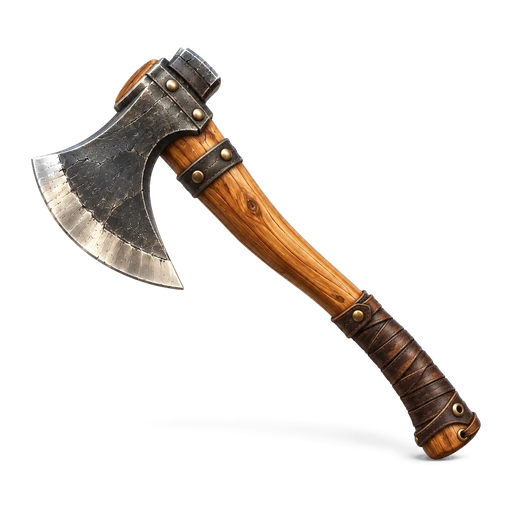
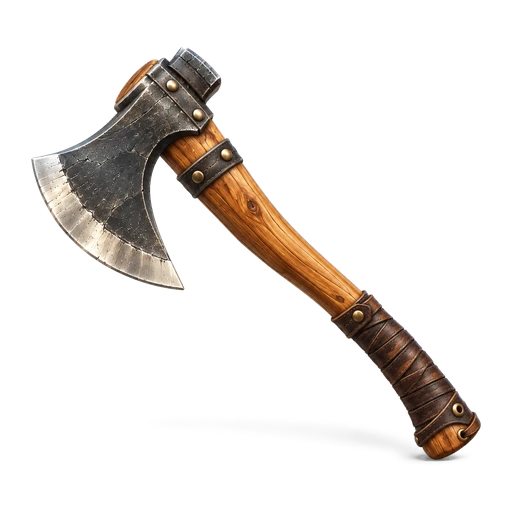
Картинки речей: тло прибирається лише плавними переходами — світлі краї лез не стають прозорими
tools/item-image.py і prepImage в admin-items.html: на білому тлі заливка від країв іде,
лише поки сусідні пікселі відрізняються ≤ 6 яскравості (тло й розмита тінь), і зупиняється
на різкій межі з річчю. IT-202 Дворучна сокира; IT-200/201 переобчислено.

Claude-Session: https://claude.ai/code/session_019wvVtScsJ6oVCSFzw8NY5F

diff --git a/admin-items.html b/admin-items.html
@@ -1092,9 +1092,13 @@ function prepImage(im){
     for(x=0;x<w;x+=2){ bv.push(at(x,0)); bv.push(at(x,h-1)); } for(y=0;y<h;y+=2){ bv.push(at(0,y)); bv.push(at(w-1,y)); }
     var lt=bv.filter(function(v){ return v>=180; }), checker=lt.length>0.8*bv.length && Math.max.apply(null,lt)-Math.min.apply(null,lt)>=20;
     var keep=!checker, lo=checker?175:150, seen=new Uint8Array(w*h), q=[];
-    for(x=0;x<w;x++){ q.push(x, 0, x, h-1); } for(y=0;y<h;y++){ q.push(0, y, w-1, y); }
-    while(q.length){ y=q.pop(); x=q.pop(); if(x<0||y<0||x>=w||y>=h) continue; var n=y*w+x; if(seen[n]) continue;
-      var j=n*4; if(!light(j, lo)) continue; seen[n]=1; q.push(x+1, y, x-1, y, x, y+1, x, y-1); }
+    // біле тло: заливка йде лише плавними переходами (тло й розмита тінь) — на різкій межі з річчю
+    // зупиняється, тож світлі краї металу (лез, обідків) не стають прозорими; «шахівниця» — без цього
+    var step=keep?6:999, lum=function(j){ return (p[j]+p[j+1]+p[j+2])/3; };
+    for(x=0;x<w;x++){ q.push(x, 0, -1, x, h-1, -1); } for(y=0;y<h;y++){ q.push(0, y, -1, w-1, y, -1); }
+    while(q.length){ var pl=q.pop(); y=q.pop(); x=q.pop(); if(x<0||y<0||x>=w||y>=h) continue; var n=y*w+x; if(seen[n]) continue;
+      var j=n*4; if(!light(j, lo)) continue; var l=lum(j); if(pl>=0 && Math.abs(l-pl)>step) continue;
+      seen[n]=1; q.push(x+1, y, l, x-1, y, l, x, y+1, l, x, y-1, l); }
     // білі «дірки» всередині речі (між шнурками, у петлях): замкнена світла ділянка > 0,15% кадру — теж тло; дрібні блиски лишаються
     var hlo=keep?238:175, minA=Math.max(40, w*h*0.0015), mark=new Uint8Array(w*h);
     for(var n0=0;n0<w*h;n0++){

diff --git a/tools/item-image.py b/tools/item-image.py
@@ -28,19 +28,25 @@ def checker(im):
     light = [v for v in vals if v >= 180]
     return len(light) > 0.8 * len(vals) and max(light) - min(light) >= 20
 
-def bg_mask(im, lo):
-    """тло = світлі нейтральні пікселі, зʼєднані з краєм (сама річ лишається непрозорою)"""
+def bg_mask(im, lo, step=None):
+    """тло = світлі нейтральні пікселі, зʼєднані з краєм (сама річ лишається непрозорою).
+    step — для білого тла: заливка йде лише плавними переходами (біле тло й розмита тінь),
+    а на різкій межі з річчю зупиняється — світлі краї металу (лез, обідків) лишаються"""
     w, h = im.size; px = im.load(); m = bytearray(w * h); q = deque()
+    lum = lambda c: (c[0] + c[1] + c[2]) / 3
     for x in range(w):
-        q.append((x, 0)); q.append((x, h - 1))
+        q.append((x, 0, None)); q.append((x, h - 1, None))
     for y in range(h):
-        q.append((0, y)); q.append((w - 1, y))
+        q.append((0, y, None)); q.append((w - 1, y, None))
     while q:
-        x, y = q.popleft()
+        x, y, prev = q.popleft()
         if x < 0 or y < 0 or x >= w or y >= h or m[y * w + x]: continue
-        if not is_light_neutral(px[x, y], lo): continue
+        c = px[x, y]
+        if not is_light_neutral(c, lo): continue
+        l = lum(c)
+        if step is not None and prev is not None and abs(l - prev) > step: continue
         m[y * w + x] = 1
-        q.extend(((x + 1, y), (x - 1, y), (x, y + 1), (x, y - 1)))
+        q.extend(((x + 1, y, l), (x - 1, y, l), (x, y + 1, l), (x, y - 1, l)))
     return m
 
 def holes(im, m, lo):
@@ -65,7 +71,7 @@ def holes(im, m, lo):
 
 def clear_bg(im, keep_shadow):
     """тло → прозоре; на білому тлі сіра тінь стає напівпрозорою темною (видно на будь-якому фоні)"""
-    w, h = im.size; px = im.load(); m = holes(im, bg_mask(im, 150 if keep_shadow else 175), 238 if keep_shadow else 175)
+    w, h = im.size; px = im.load(); m = holes(im, bg_mask(im, 150 if keep_shadow else 175, 6 if keep_shadow else None), 238 if keep_shadow else 175)
     for y in range(h):
         for x in range(w):
             if not m[y * w + x]: continue
